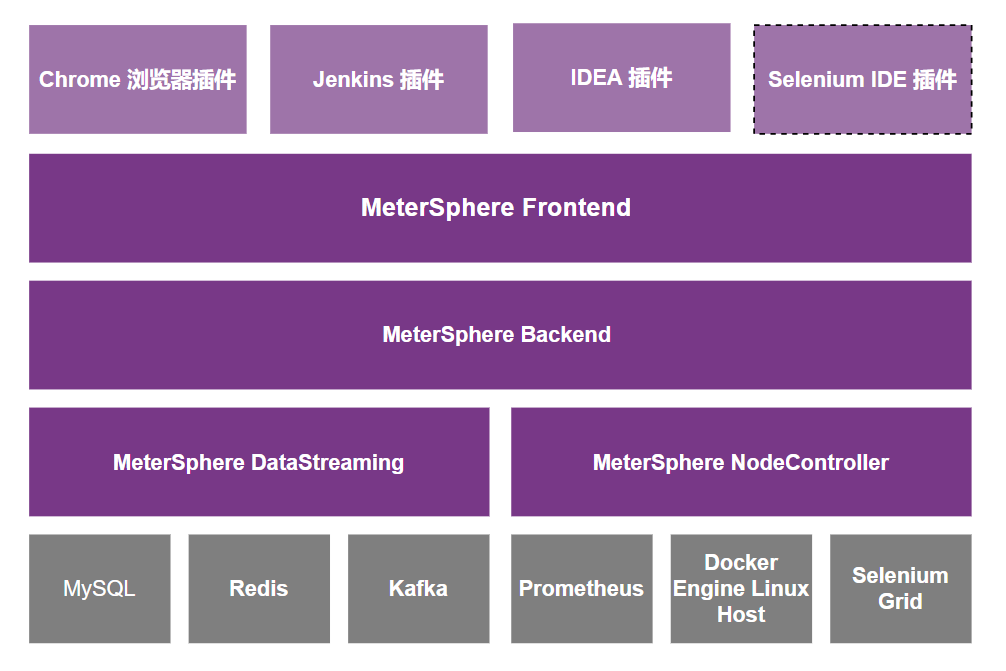
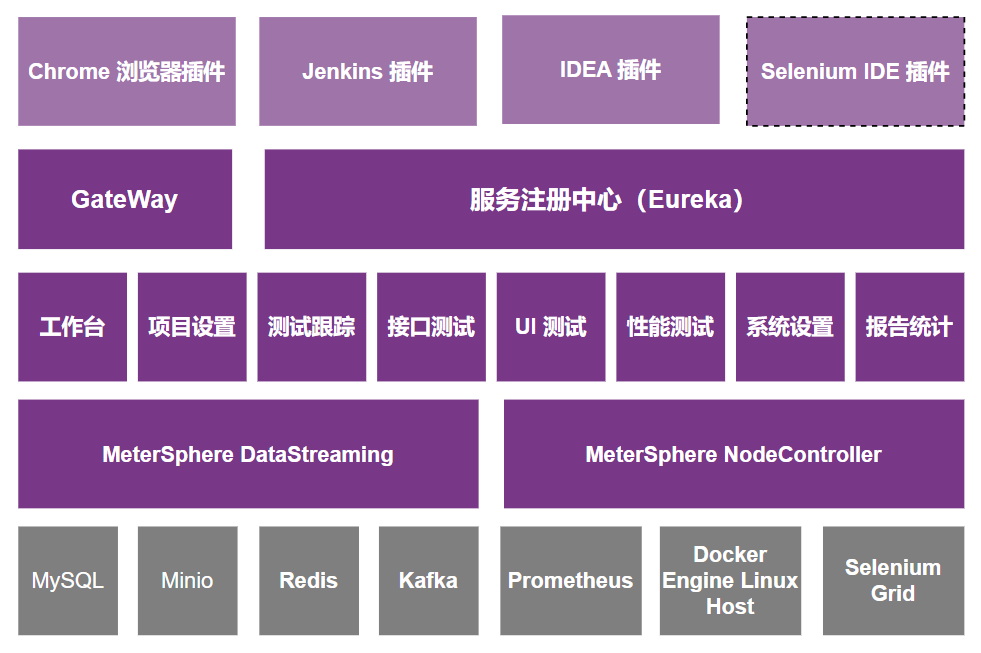
docs: 更新 v2.3 系统架构和开发文档

diff --git a/docs/dev_manual.md b/docs/dev_manual.md
@@ -2,28 +2,51 @@
 
 ```
 .
-├── Dockerfile                                      # 构建容器镜像使用的 dockerfile
 ├── Jenkinsfile                                     # 构建JAR包使用的 jenkinsfile
 ├── LICENSE
 ├── OWNERS
-├── README.md
-├── README-EN.md
+├── README.md                                       # 项目中文介绍
+├── README-EN.md                                    # 项目英文介绍
 ├── SECURITY.md                                     # 安全说明
 ├── CODE_OF_CONDUCT.md                        
-├── CONTRIBUTING.md               
-├── backend                                         # 后端项目主目录
-│   ├── src                                         # 后端代码目录
-│   ├── pom.xml                                     # 后端 maven 项目使用的 pom 文件
-│   └── .gitignore                                  
-├── frontend                                        # 前端项目主目录
-│   ├── public
-│   ├── src                                         # 前端代码目录
-│   ├── .editorconfig
-│   ├── .gitignore
-│   ├── babel.config.js
-│   ├── package.json
-│   ├── vue.config.js                               # 前端 maven 项目使用的 pom 文件
-│   └── 代码规范.MD
+├── CONTRIBUTING.md 
+├── build.md                                        # 构建过程
+├──framework                                          
+│   ├── eureka                                       # 服务注册中心
+│   ├── gateway                                      # API 网关
+│   ├── sdk-parent                                   # SDK
+│   ├── .gitignore                                    
+│   └── pom                                          # 主框架的 pom 文件           
+├──test-track                                        # 测试跟踪模块
+│   ├── backend                                      # 后端代码目录
+│   ├── frontend                                     # 前端代码目录
+│   ├── Dockerfile                                   # 构建容器镜像使用的 dockerfile
+│   └── pom                                          # 测试跟踪模块使用的 pom 文件   
+├── api-test                                         # 接口测试模块
+│   ├── backend                                      # 后端代码目录
+│   ├── frontend                                     # 前端代码目录
+│   ├── Dockerfile                                   # 构建容器镜像使用的 dockerfile
+│   └── pom                                          # 接口测试模块使用的 pom 文件
+├── performance-test                                 # 性能测试模块
+│   ├── backend                                      # 后端代码目录
+│   ├── frontend                                     # 前端代码目录
+│   ├── Dockerfile                                   # 构建容器镜像使用的 dockerfile
+│   └── pom                                          # 性能测试模块使用的 pom 文件
+├── report-stat                                      # 报表统计模块
+│   ├── backend                                      # 后端代码目录
+│   ├── frontend                                     # 前端代码目录
+│   ├── Dockerfile                                   # 构建容器镜像使用的 dockerfile
+│   └── pom                                          # 报表统计模块使用的 pom 文件  
+├── project-management                               # 项目管理模块
+│   ├── backend                                      # 后端代码目录
+│   ├── frontend                                     # 前端代码目录
+│   ├── Dockerfile                                   # 构建容器镜像使用的 dockerfile
+│   └── pom                                          # 项目管理模块使用的 pom 文件 
+├── system-setting                                   # 系统设置模块
+│   ├── backend                                      # 后端代码目录
+│   ├── frontend                                     # 前端代码目录
+│   ├── Dockerfile                                   # 构建容器镜像使用的 dockerfile
+│   └── pom                                          # 系统设置模块使用的 pom 文件
 ├── .gitignore
 ├── .gitmodules
 └── pom.xml                                         # 整体 maven 项目使用的 pom 文件
@@ -32,38 +55,52 @@
 ## 配置开发环境
 
 ### 后端
-MeterSphere 后端使用了 Java 语言的 Spring Boot 框架，并使用 Maven 作为项目管理工具。开发者需要先在开发环境中安装 JDK 1.11 及 Maven。
+MeterSphere 后端使用了 Java 语言的 Spring Cloud 框架，并使用 Maven 作为项目管理工具。开发者需要先在开发环境中安装 JDK 1.11 及 Maven。
 
 #### 初始化配置
 
 ##### 数据库初始化
 
 !!! info "注意"
-    MeterSphere 使用 MySQL 数据库，推荐使用 MySQL 5.7 版本。同时 MeterSphere 对数据库部分配置项有要求，请参考下附的数据库配置，修改开发环境中的数据库配置文件。
+    MeterSphere 使用 MySQL 数据库，使用 MySQL 8 版本。同时 MeterSphere 对数据库部分配置项有要求，请参考下附的数据库配置，修改开发环境中的数据库配置文件。
 
 ```
 [mysqld]
+datadir=/var/lib/mysql
+
 default-storage-engine=INNODB
+character_set_server=utf8mb4
 lower_case_table_names=1
+performance_schema=off
 table_open_cache=128
-max_connections=2000
-max_connect_errors=6000
-innodb_file_per_table=1
-innodb_buffer_pool_size=1G
-max_allowed_packet=64M
 transaction_isolation=READ-COMMITTED
+max_connections=1000
+max_connect_errors=6000
+max_allowed_packet=64M
+innodb_file_per_table=1
+innodb_buffer_pool_size=512M
 innodb_flush_method=O_DIRECT
 innodb_lock_wait_timeout=1800
-innodb_flush_log_at_trx_commit=0
-sync_binlog=0
 
 server-id=1
 log-bin=mysql-bin
 expire_logs_days = 2
 binlog_format=mixed
 
-sql_mode=STRICT_TRANS_TABLES,NO_ZERO_IN_DATE,NO_ZERO_DATE,ERROR_FOR_DIVISION_BY_ZERO,NO_AUTO_CREATE_USER,NO_ENGINE_SUBSTITUTION
+character-set-client-handshake = FALSE
+character-set-server=utf8mb4
+collation-server=utf8mb4_general_ci
+init_connect='SET default_collation_for_utf8mb4=utf8mb4_general_ci'
+
+sql_mode=STRICT_TRANS_TABLES,NO_ZERO_IN_DATE,NO_ZERO_DATE,ERROR_FOR_DIVISION_BY_ZERO,NO_ENGINE_SUBSTITUTION
+
 skip-name-resolve
+
+[mysql]
+default-character-set=utf8mb4
+
+[mysql.server]
+default-character-set=utf8mb4
 ```
 
 请参考文档中的建库语句创建 MeterSphere 使用的数据库，metersphere-server 服务启动时会自动在配置的库中创建所需的表结构及初始化数据。
@@ -75,6 +112,9 @@ CREATE DATABASE `metersphere_dev` /*!40100 DEFAULT CHARACTER SET utf8mb4 */
 MeterSphere 会默认加载该路径下的配置文件 /opt/metersphere/conf/metersphere.properties，请参考下列配置创建对应目录及配置文件。
 
 ```
+# eureka 配置
+eureka.client.service-url.defaultZone=http://eureka:8761/eureka/
+
 # 数据库配置
 spring.datasource.url=jdbc:mysql://localhost:3306/metersphere_dev?autoReconnect=false&useUnicode=true&characterEncoding=UTF-8&characterSetResults=UTF-8&zeroDateTimeBehavior=convertToNull&useSSL=false
 spring.datasource.username=root
@@ -102,6 +142,13 @@ spring.redis.password=Password123@redis
 
 # 启动模式，lcoal 表示以本地开发模式启动
 run.mode=local
+
+## CAS
+cas.client.name=MS_SERVER
+## CAS SERVER URL
+cas.server.url=http://xxx/cas
+## METERSPHERE SERVER URL
+cas.client.url=http://IP:8081                              
 ```
 
 ##### JMeter 配置文件
@@ -110,24 +157,27 @@ metersphere-server 服务依赖的 JMeter 核心类库需要加载 JMeter 配置
 
 开发者需要先创建好对应文件夹，并将工程目录中 backend/src/main/resources/jmeter/bin 目录下的配置文件拷贝到 /opt/jmeter/bin 目录。
 
+#### 启动 eureka 和 gateway
 
-#### 运行后端服务
+选择 eureka 和 gateway 的 Spring Boot 启动项，直接启动即可。
 
-在启动配置中添加 Spring Boot 启动项，直接启动 Spring Boot 项目即可。
+![server-start](./img/dev/eureka-gateway-start.png)
 
-![server-start](./img/dev/server-start.png)
+#### 运行某一模块，比如 测试跟踪模块（test-track）
+
+选择 test-track 的 Spring Boot 启动项，直接启动即可。
 
 ### 前端
 MeterSphere 前端使用了 Vue.js 作为前端框架，ElementUI 作为 UI 框架，并使用 npm 作为包管理工具。开发者请先下载 Node.js 作为运行环境，IDEA 用户建议安装 Vue.js 插件，便于开发。
 
 #### 初始化配置
-进入 metersphere-server/frontend/ 目录，执行以下命令安装相关前端组件。
+进入 metersphere-server/test-track/frontend/ 目录，执行以下命令安装相关前端组件。
 ```
 npm install
 ```
 
 #### 运行前端服务
-进入到 metersphere-server/frontend/ 目录，执行以下命令启动前端服务。
+进入到 metersphere-server/test-track/frontend/ 目录，执行以下命令启动前端服务。
 ```
 npm run serve
 ```

diff --git a/docs/system_arch.md b/docs/system_arch.md
@@ -4,14 +4,23 @@
 
 ### 组件说明
 
-- **[Frontend](https://github.com/metersphere/metersphere)**: MeterSphere 的前端工程, 基于 Vue.js 进行开发。
-- **[Backend](https://github.com/metersphere/metersphere)**: MeterSphere 的后端工程, 基于 Spring Boot 进行开发, 为 MeterSphere 的功能主体。
 - **[Chrome 浏览器插件](https://github.com/metersphere/chrome-extensions)**: Chrome 浏览器插件, 录制 Web 访问请求生成 JMeter 脚本并导入到 MeterSphere 中用于接口测试及性能测试。
 - **[Jenkins 插件](https://github.com/metersphere/jenkins-plugin)**: Jenkins 插件,在 Jenkins 中安装该插件后可将 Jenkins 任务中添加 MeterSphere 构建环节,用户在该构建环节中配置 MeterSphere 平台的认证信息后,可选择指定项目下的接口/性能测试进行触发执行。
 - **[IDEA 插件](https://github.com/metersphere/metersphere-idea-plugin)**: IDEA 插件,基于javadoc解析,能够自动识别类,同步接口定义到 MeterSphere。
-- **[Node Controller](https://github.com/metersphere/node-controller)**: 为性能测试提供独立节点类型的测试资源池, 接收来自系统的性能测试任务, 动态的启动 JMeter容器完成性能测试。
+- **[GateWay](https://github.com/metersphere/metersphere)**: API 网关项目。
+- **[Eureka](https://github.com/metersphere/metersphere)**: 服务注册中心。
+- **[工作台](https://github.com/metersphere/metersphere)**: MeterSphere 项目的工作台模块。
+- **[项目设置](https://github.com/metersphere/metersphere)**: MeterSphere 项目的项目设置模块。
+- **[测试跟踪](https://github.com/metersphere/metersphere)**: MeterSphere 项目的测试跟踪模块。
+- **[接口测试](https://github.com/metersphere/metersphere)**: MeterSphere 项目的接口测试模块。
+- **[UI 测试](https://github.com/metersphere/metersphere)**:  MeterSphere 项目的UI 测试模块。
+- **[性能测试](https://github.com/metersphere/metersphere)**: MeterSphere 项目的性能测试模块。
+- **[系统设置](https://github.com/metersphere/metersphere)**: MeterSphere 项目的系统设置模块。
+- **[报告统计](https://github.com/metersphere/metersphere)**: MeterSphere 项目的报告统计模块。
+- **[Node Controller](https://github.com/metersphere/node-controller)**: 为性能测试提供独立节点类型的测试资源池, 接收来自系统的性能测试任务, 动态的启动 JMeter 容器完成性能测试。
 - **MySQL**: MeterSphere 项目的主要数据均存储在 MySQL。
-- **Redis**: MeterSphere 项目登录用户的Session存储在 Redis。
+- **Redis**: MeterSphere 项目登录用户的 Session 和任务队列信息存储在 Redis。
+- **Minio**: MeterSphere 项目的分布式对象存储模块。
 - **Kafka**: 接收 JMeter 产生的接口测试或者性能测试的结果数据。
 - **Prometheus**: 收集压力机及被测系统的监控数据。
 - **[Data Streaming](https://github.com/metersphere/data-streaming)**: 从 Kafka 中获取接口测试或者性能测试结果数据进行处理后存入 MySQL 数据库。
@@ -46,6 +55,6 @@ MeterSphere 提供了多租户、多角色的管理模型, 用户可根据所在
 
 - 后端: [Spring Cloud](https://www.tutorialspoint.com/spring_cloud/spring_cloud_introduction.htm)
 - 前端: [Vue.js](https://vuejs.org/)
-- 中间件: [MySQL](https://www.mysql.com/), [Kafka](https://kafka.apache.org/), [Redis](https://redis.io/), [Prometheus](https://prometheus.io/)
+- 中间件: [MySQL](https://www.mysql.com/), [Kafka](https://kafka.apache.org/), [Redis](https://redis.io/), [Minio](https://min.io/), [Prometheus](https://prometheus.io/)
 - 基础设施: [Docker](https://www.docker.com/), [Kubernetes](https://kubernetes.io/)
 - 测试引擎: [JMeter](https://jmeter.apache.org/)
